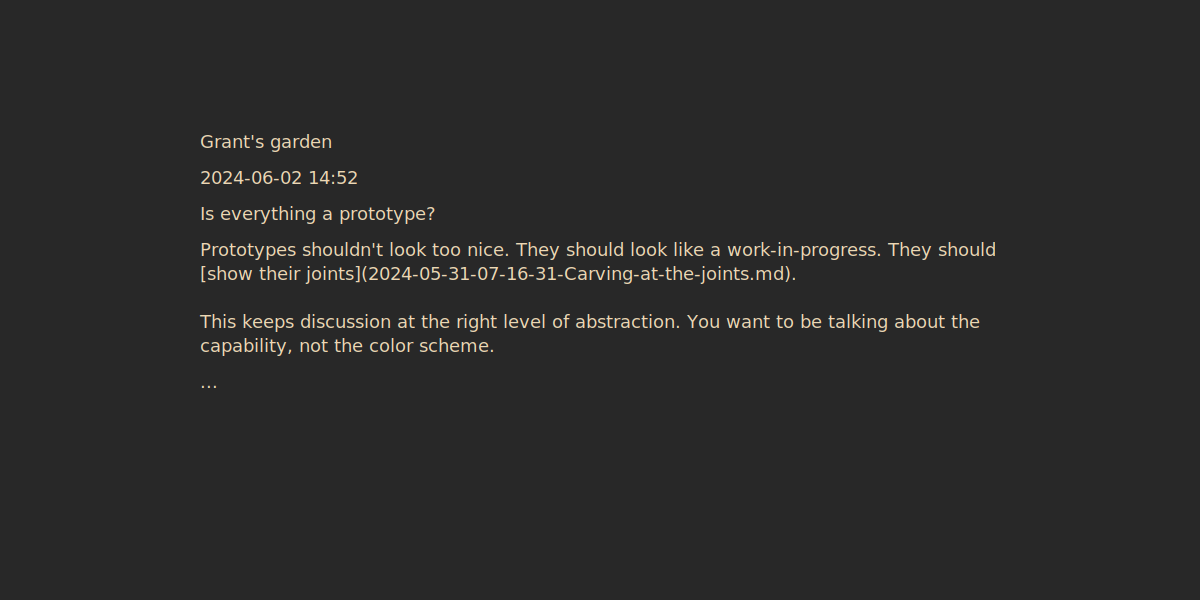
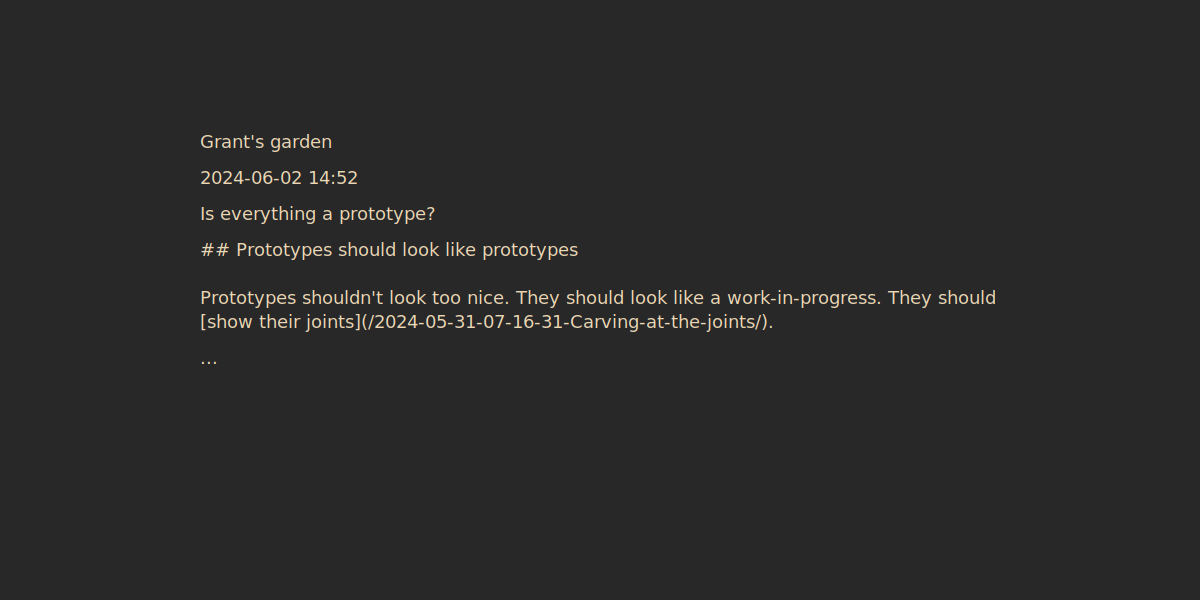
finish post

Changed region(s): [[0.1542, 0.39, 0.8325, 0.6]]

diff --git a/output/2024-06-02-14-52-50-Is-everything-a-prototype/index.html b/output/2024-06-02-14-52-50-Is-everything-a-prototype/index.html
@@ -3,7 +3,7 @@
     <title>Is everything a prototype? - Grant's Garden</title>
     <meta
       name="description"
-      content="Prototypes shouldn't look too nice. They should look like a work-in-progress. They should [show their joints](2024-05-31-07-16-31-Carving-at-the-joints.md)."
+      content="## Prototypes should look like prototypes"
     />
     <meta
       property="og:title"
@@ -11,7 +11,7 @@
     />
     <meta
       property="og:description"
-      content="Prototypes shouldn't look too nice. They should look like a work-in-progress. They should [show their joints](2024-05-31-07-16-31-Carving-at-the-joints.md)."
+      content="## Prototypes should look like prototypes"
     />
     <meta
       property="og:image"
@@ -30,10 +30,13 @@
       <div><a href="/" class="green">Grant's garden</a></div>
       <p>2024-06-02 14:52</p>
       <h1 id="is-everything-a-prototype">Is everything a prototype?</h1>
+      <h2 id="prototypes-should-look-like-prototypes">
+        Prototypes should look like prototypes
+      </h2>
       <p>
         Prototypes shouldn't look too nice. They should look like a
         work-in-progress. They should
-        <a href="2024-05-31-07-16-31-Carving-at-the-joints.md"
+        <a href="/2024-05-31-07-16-31-Carving-at-the-joints/"
           >show their joints</a
         >.
       </p>
@@ -45,27 +48,28 @@
         It also invites others to extend and modify the prototype in their mind.
         It encourages iteration.
       </p>
-      <h2 id="is-everything-a-prototype-1">Is everything a prototype?</h2>
-      <p>I believe in and make these arguments.</p>
+      <h2 id="but-then...">But then...</h2>
       <p>
-        As I make the case, I start to question, what work shouldn't have these
-        qualities?
+        I believe in and make these arguments. But then as I make the case, I
+        start to question, what work shouldn't have these qualities?
       </p>
-      <p>Shouldn't all work invite understanding and potential modification?</p>
+      <p>
+        Shouldn't we always invite understanding and potential modification?
+      </p>
       <p>Should everything be a prototype? Is everything a prototype?</p>
       <p>
         I think this connects to that Steve Jobs quote about the empowerment of
-        un derstanding everything in the built world was designed by someone,
-        and you can do it too.
+        understanding everything in the built world was designed by someone, and
+        you can do it too.
       </p>
       <p>
-        Probably qualities that might be in conflict with prototypey-ness are
-        durability and safety. Important things!
+        Qualities that might be in conflict with prototypey-ness are durability
+        and safety. Important things!
       </p>
       <p>
         But I think a lot of objects aspire to a feeling of 'completeness' that
-        is uneccesary. That feels like it's designed to conceal its own
-        construction and I think I want to move counter to that.
+        is uneccesary. They want to conceal evidence of their construction. I
+        want to show it.
       </p>
     </div>
   </body>

diff --git a/content/posts/2024-06-02-14-52-50-Is-everything-a-prototype.md b/content/posts/2024-06-02-14-52-50-Is-everything-a-prototype.md
@@ -1,24 +1,23 @@
 # Is everything a prototype?
 
-Prototypes shouldn't look too nice. They should look like a work-in-progress. They should [show their joints](2024-05-31-07-16-31-Carving-at-the-joints.md).
+## Prototypes should look like prototypes
+
+Prototypes shouldn't look too nice. They should look like a work-in-progress. They should [show their joints](/2024-05-31-07-16-31-Carving-at-the-joints/).
 
 This keeps discussion at the right level of abstraction. You want to be talking about the capability, not the color scheme.
 
 It also invites others to extend and modify the prototype in their mind. It encourages iteration.
 
-## Is everything a prototype?
+## But then...
 
-I believe in and make these arguments.
+I believe in and make these arguments. But then as I make the case, I start to question, what work shouldn't have these qualities?
 
-As I make the case, I start to question, what work shouldn't have these qualities?
-
-Shouldn't all work invite understanding and potential modification?
+Shouldn't we always invite understanding and potential modification?
 
 Should everything be a prototype? Is everything a prototype?
 
-I think this connects to that Steve Jobs quote about the empowerment of un
-derstanding everything in the built world was designed by someone, and you can do it too.
+I think this connects to that Steve Jobs quote about the empowerment of understanding everything in the built world was designed by someone, and you can do it too.
 
-Probably qualities that might be in conflict with prototypey-ness are durability and safety. Important things!
+Qualities that might be in conflict with prototypey-ness are durability and safety. Important things!
 
-But I think a lot of objects aspire to a feeling of 'completeness' that is uneccesary. That feels like it's designed to conceal its own construction and I think I want to move counter to that.
+But I think a lot of objects aspire to a feeling of 'completeness' that is uneccesary.  They want to conceal evidence of their construction. I want to show it.
